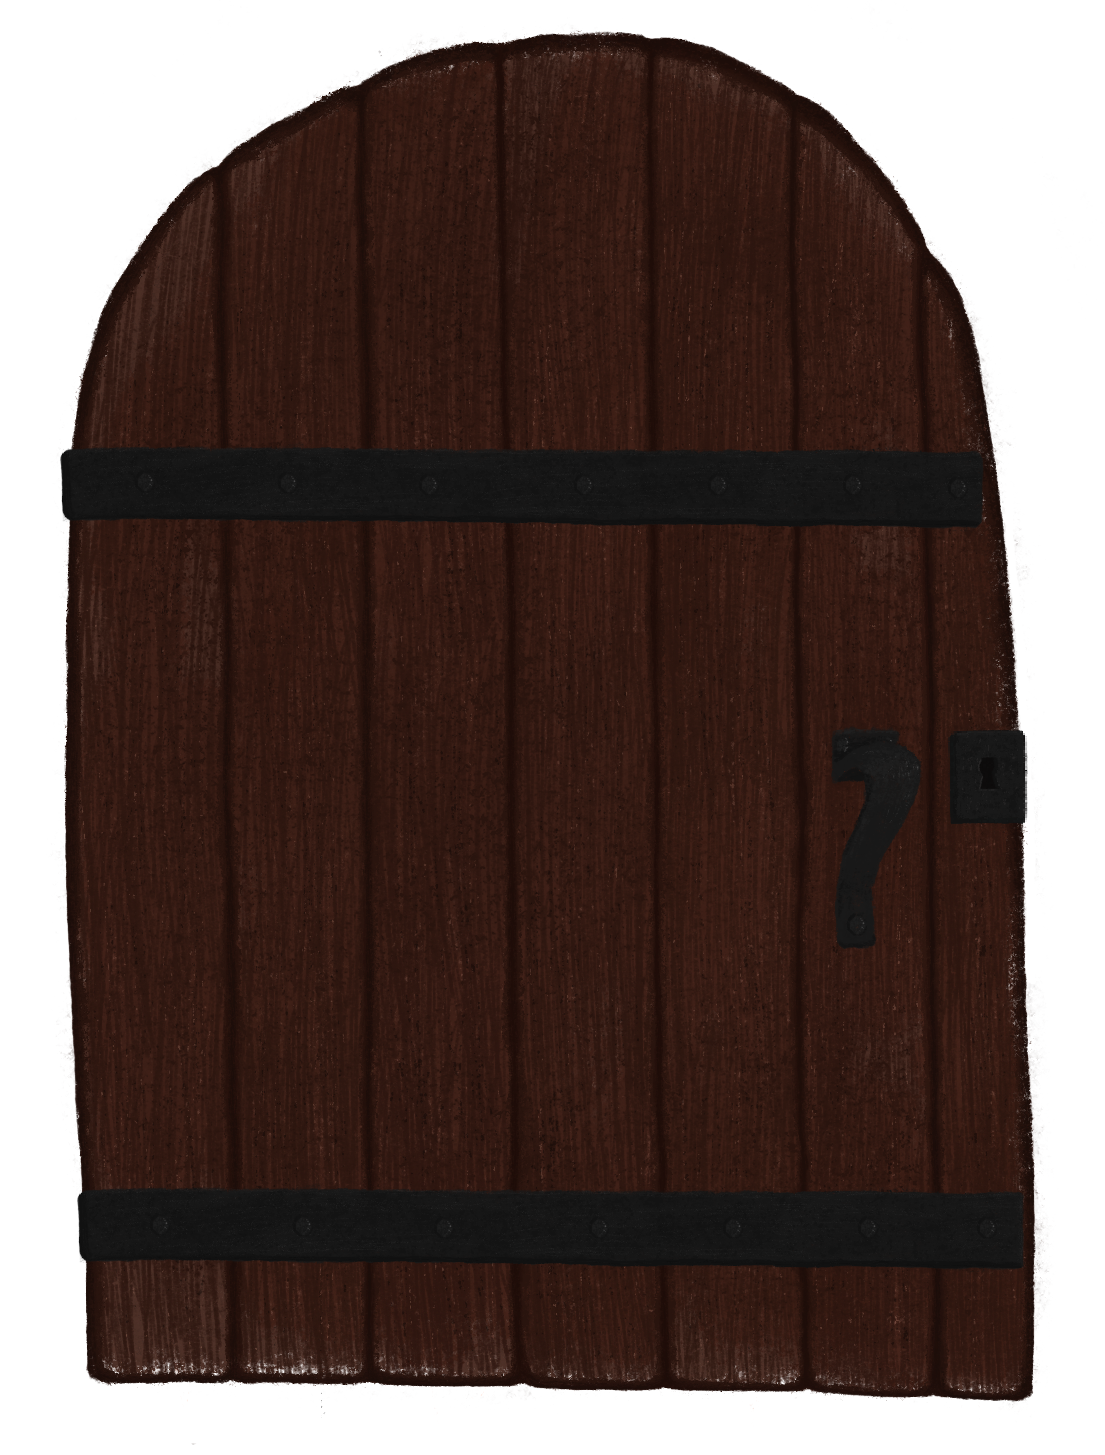
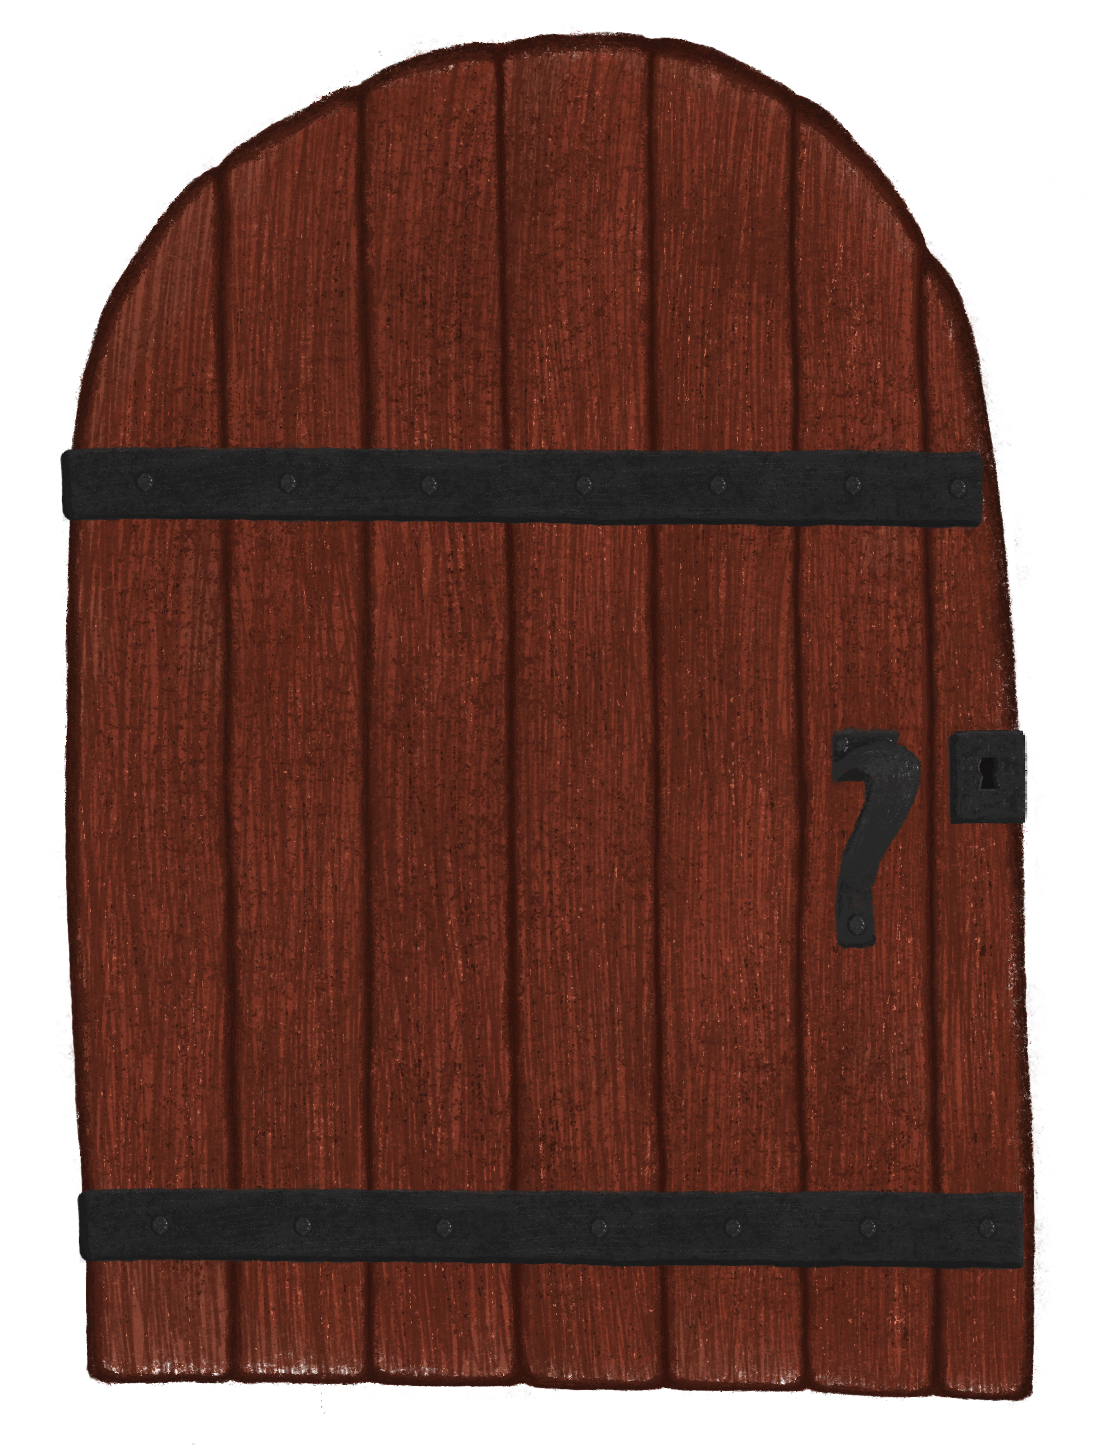
js revamp & door lighten

diff --git a/pages/levels/page2-copy3.html b/pages/levels/page2-copy3.html
@@ -8,7 +8,7 @@
     <meta name="viewport" content="width=device-width, initial-scale=1.0">
 </head>
 
-<body>
+<body onload="assistMode()">
 
     <div class="header">
         <div class="logo"><img src="../../assets/logo_small.png" alt="The Normal Game logo"></div>
@@ -28,42 +28,65 @@
 
         <div class="instr">
             Um... not that one, the Blorgle one.<br>
-            &nbsp;<br>
+            Here, I'll turn on assist mode for you.
+        </div>
+
+        <div class="instr2 remove">
             Lets try that again!<br>
-            Click on the Blorgle<span class="add remove">(+)</span> square.
+            Click on the Blorgle(+) square.
         </div>
 
         <div class="game">
-            
             <button class="sq min" onclick="document.location='../gameover.html'">-</button>
             <button class="sq than" onclick="document.location='../gameover.html'"><</button>
             <button class="sq plus" onclick="document.location='page3.html'">+</button>
             <button class="sq nill" onclick="document.location='../gameover.html'">o</button>
         </div>
 
-        <div class="spacer-small"></div>
-
-        <button class="button" onclick="assistMode()">Assist Mode</button>
+        <!-- <div class="instr3">
+            Um... not that one, the Blorgle one.<br>
+            Here, I'll turn on assist mode for you.
+        </div> -->
 
     </div>
 
     <script>
+
+        var instr = document.querySelector(".instr")
+        var instr2 = document.querySelector(".instr2")
+        var instr3 = document.querySelector(".instr3")
 
         var min = document.querySelector(".min")
         var than = document.querySelector(".than")
         var plus = document.querySelector(".plus")
         var nill = document.querySelector(".nill")
 
-        var add = document.querySelector(".add")
+        var delayInMilliseconds = 4000;
 
         function assistMode() {
-            min.classList.toggle("sq2")
-            than.classList.toggle("sq2")
-            plus.classList.toggle("sq2")
-            nill.classList.toggle("sq2")
 
-            add.classList.toggle("remove")
+            // instr3.classList.remove("remove")
+
+            setTimeout(function() {
+
+                min.classList.add("sq2")
+                than.classList.add("sq2")
+                plus.classList.add("sq2")
+                nill.classList.add("sq2")
+
+                instr.classList.add("remove")
+                instr2.classList.remove("remove")
+
+                setTimeout(function() {
+
+                    instr3.classList.add("remove")
+
+            }, delayInMilliseconds);
+
+            }, delayInMilliseconds);
         }
+
+        // document.querySelector()
 
     </script>
     

diff --git a/pages/levels/page5.html b/pages/levels/page5.html
@@ -8,7 +8,7 @@
     <meta name="viewport" content="width=device-width, initial-scale=1.0">
 </head>
 
-<body>
+<body onload="attackTimer()">
 
     <div class="header">
         <div class="logo"><img src="../../assets/logo_small.png" alt="The Normal Game logo"></div>
@@ -22,27 +22,47 @@
 
     <div class="main">
         <div class="instr">
-            No silly, give it another go.<br>
+            No! You're running out of time!<br>
             &nbsp;<br>
-            Click on the Bad Guy to stop them!<br>
             Quickly!<br>
+            Click on the Bad Guy to stop them!<br>
             &nbsp;
         </div>
         <div class="game">
             <button class="circ friend" onclick="document.location='../gameover.html'"></button>
             <button class="circ friend2" onclick="document.location='../gameover.html'"></button>
-            <button class="circ friend 3" onclick="document.location='../gameover.html'"></button>
+            <button class="circ friend2" onclick="document.location='../gameover.html'"></button>
         </div>
         <div class="game">
             <button class="circ friend2" onclick="document.location='../gameover.html'"></button>
-            <button class="circ bad-guy" onclick="document.location='page6.html'"></button>
+            <button class="circ friend3" onclick="document.location='page6.html'"></button>
         </div>
-        <div class="instr">
-            &nbsp;<br>
-            &nbsp;<br>
-            &nbsp;<br>
-        </div>
+        <div class="spacer-small"></div>
+        <button class="button" onclick="assistMode()">Assist Mode</button>
     </div>
+
+    <script>
+
+        var delayInMilliseconds = 5000;
+
+        function attackTimer() {
+
+            setTimeout(function() {
+
+                document.location="../gameover.html"
+
+            }, delayInMilliseconds);
+        }
+
+        var devil = document.querySelector(".friend3")
+
+        function assistMode() {
+
+            devil.classList.toggle("bad-guy")
+
+        }
+
+    </script>
     
 </body>
 

diff --git a/pages/levels/page4.html b/pages/levels/page4.html
@@ -8,7 +8,7 @@
     <meta name="viewport" content="width=device-width, initial-scale=1.0">
 </head>
 
-<body>
+<body onload="attackTimer()">
 
     <div class="header">
         <div class="logo"><img src="../../assets/logo_small.png" alt="The Normal Game logo"></div>
@@ -23,25 +23,30 @@
     <div class="main">
         <div class="instr">
             Oh no, we're under attack!<br>
-            You need to save your Friends.<br>
+            You need to save your Friends!<br>
             &nbsp;<br>
-            Quick, click on the Bad Guy to stop them!
+            Quick!<br>
+            Click on the Bad Guy to stop them!
         </div>
         <div class="game">
-            <button class="circ friend" onclick="document.location='page5.html'"></button>
             <button class="circ friend2" onclick="document.location='page5.html'"></button>
+            <button class="circ friend" onclick="document.location='page5.html'"></button>
+        </div>
+        <div class="game">
             <button class="circ friend3" onclick="document.location='page5.html'"></button>
-        </div>
-        <div class="game">
             <button class="circ friend2" onclick="document.location='page5.html'"></button>
-            <button class="circ friend" onclick="document.location='page5.html'"></button>
-        </div>
-        <div class="instr">
-            &nbsp;<br>
-            &nbsp;<br>
-            &nbsp;<br>
+            <button class="circ friend2" onclick="document.location='page5.html'"></button>
         </div>
     </div>
+
+    <script>
+        var delayInMilliseconds = 5000;
+        function attackTimer() {
+            setTimeout(function() {
+                document.location="../gameover.html"
+            }, delayInMilliseconds);
+        }
+    </script>
     
 </body>
 

diff --git a/main.css b/main.css
@@ -37,7 +37,7 @@ body {
     background-color: #99b9ba;
     margin: 0px 50px;
     padding: 100px;
-    padding-top: 200px;
+    /* padding-top: 200px; */
     height: 80vh;
     overflow-y: scroll;
     /* border-radius: 15px; */
@@ -169,14 +169,20 @@ button {
 }
 
 .start {
-    background-color: white;
+    font-size: x-large;
+    padding: 10px 16px;
+    background-color: #ffffff;
+    box-shadow: #526c84 3px 3px;
+    outline: none;
+    font-family: argent-pixel-cf, sans-serif;
+    /* background-color: white;
     text-align: center;
     width: fit-content;
     height: fit-content;
     padding: 8px 12px;
     /* border-radius: 8px; */
-    box-shadow: black 3px 3px;
-    align-self: center;
+    /* box-shadow: black 3px 3px;
+    align-self: center; */
 }
 
 .start:hover {
@@ -275,7 +281,7 @@ button {
 
 .circ {
     width: 100px;
-    height: 100px;
+    height: 175px;
     border-radius: 40%;
     cursor: pointer;
     background-size: contain;
@@ -293,11 +299,15 @@ button {
 }
 
 .friend3 {
-    background-image: url(assets/friend2.png);
+    background-image: url(assets/friend1.png);
+    transform: scaleX(-1);
 }
 
 .bad-guy {
     background-image: url(assets/bad-guy.png);
+    height: 175px;
+    width: 120px;
+    transform: scaleX(1);
 }
 
 .starburst {

diff --git a/index.html b/index.html
@@ -21,12 +21,14 @@
         <div>vcu gdes 2026 capstone</div> -->
     </div>
 
-    <div class="main">
+    <div class="main" style="padding-top: 100px;">
         <!-- <div class="start" a href="url(start.html)">click to start</div> -->
         <!-- <h1>welcome to my little game :]</h1> -->
         <img class="title" src="assets/logo_large.png" alt="The Normal Game logo">
         <div class="spacer-small"></div>
-        <button class="button" onclick="document.location='pages/difficulty.html'">Start Game</button>
+        <div style="font-size: large;">by matt christian</div>
+        <div class="spacer-small"></div>
+        <button class="start" onclick="document.location='pages/difficulty.html'">Start Game</button>
     </div>
     
 </body>

diff --git a/pages/deathscreen.html b/pages/deathscreen.html
@@ -8,7 +8,7 @@
     <meta name="viewport" content="width=device-width, initial-scale=1.0">
 </head>
 
-<body onload="gameReset()">
+<body onload="gameReset(10)">
 
     <div class="header">
         <div class="logo"><a onclick="document.location='../index.html'"><img src="../assets/logo_small.png" alt="The Normal Game logo"></a></div>
@@ -34,11 +34,11 @@
     </div>
 
     <script>
-        var delayInMilliseconds = 15000;
-        function gameReset() {
+        // var delayInMilliseconds = 10000;
+        function gameReset(timeout) {
             setTimeout(function() {
                 document.location="../index.html"
-            }, delayInMilliseconds);
+            }, timeout*1000);
         }
     </script>
     

diff --git a/pages/levels/page6.html b/pages/levels/page6.html
@@ -22,9 +22,11 @@
 
     <div class="main">
         <div class="instr">
-            It seems like you're having a bit of trouble!<br>
+            Phew, we're safe for now.<br>
             &nbsp;<br>
-            Lets see if you can get the next one...
+            But you're having quite a bit of trouble aren't you...<br>
+            &nbsp;<br>
+            Let's see if you can get the next one.
         </div>
         <div class="spacer-small"></div>
         <button class="button" onclick="document.location='page7.html'">continue</button>

diff --git a/pages/levels/page1.html b/pages/levels/page1.html
@@ -23,7 +23,8 @@
     <div class="main">
         <div class="instr">
             A strange puzzle blocks your way.<br>
-            Click on the Blorgle square to continue.<br>
+            &nbsp;<br>
+            Click on the Blorgle colored box to continue.<br>
         </div>
         <div class="game">
             <button class="sq plus" onclick="document.location='page2.html'"></button>

diff --git a/pages/levels/page15.html b/pages/levels/page15.html
@@ -25,12 +25,19 @@
     </div>
 
     <script>
-        var delayInMilliseconds = 3000;
+
+        var delayInMilliseconds = 2000;
+
         function gameOver() {
+
             setTimeout(function() {
+
                 document.location="../deathscreen.html"
+
             }, delayInMilliseconds);
+
         }
+
     </script>
     
 </body>
